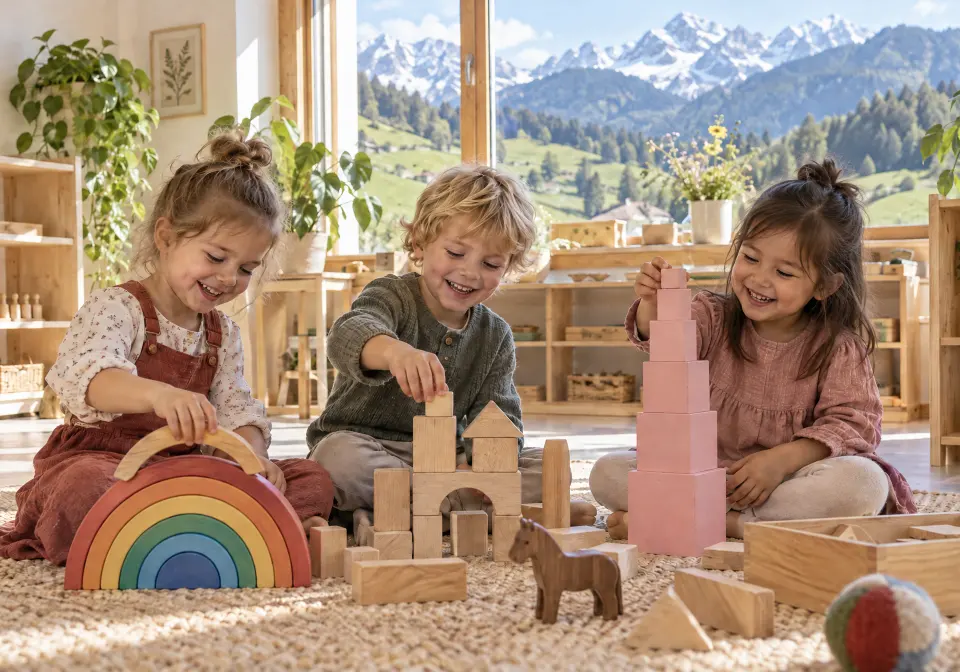
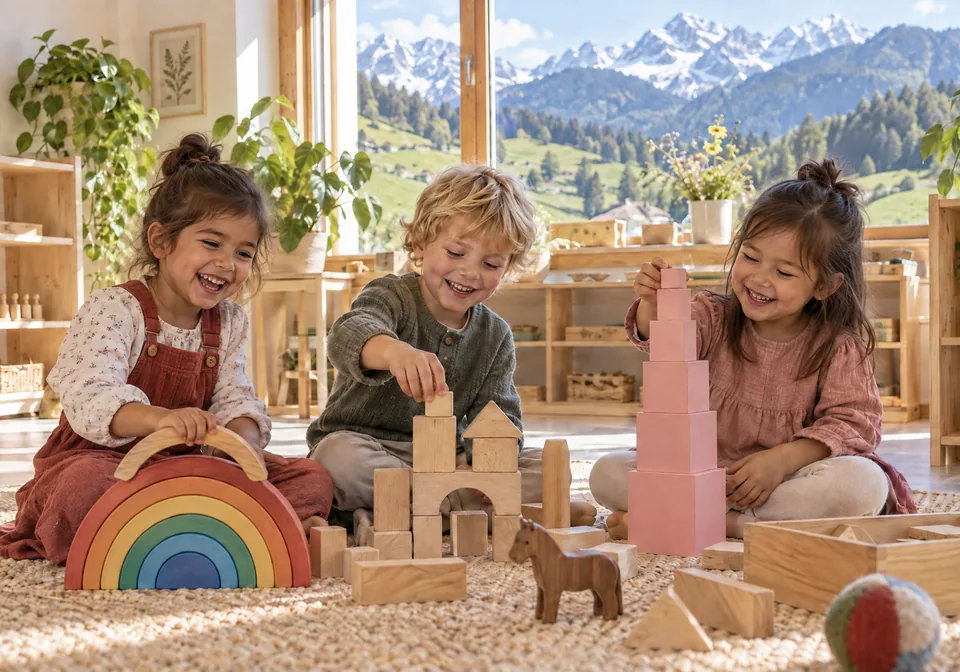
Hero-Bild: Mädchen links als spanisches Mädchen mit dunklerer Haut

diff --git a/docs/index.html b/docs/index.html
@@ -7,7 +7,7 @@
 <meta name="description" content="Staatlich anerkannter Montessori-Kindergarten in Schwangau: eine Gruppe, bis zu 25 Kinder von 3 bis 6 Jahren, getragen von einer Elterninitiative.">
 <meta property="og:title" content="Montessori Kinderhaus Schwangau">
 <meta property="og:description" content="»Hilf mir, es selbst zu tun.« Staatlich anerkannter Kindergarten am Ehberg in Schwangau.">
-<meta property="og:image" content="assets/img/hero-960.webp?v=59c2bdef">
+<meta property="og:image" content="assets/img/hero-960.webp?v=0f224577">
 <meta name="theme-color" content="#fbf8f2">
 <link rel="icon" href="assets/favicon.svg" type="image/svg+xml">
 <link rel="preload" href="assets/fonts/fraunces.woff2" as="font" type="font/woff2" crossorigin>
@@ -56,7 +56,7 @@
       <div class="hero-media">
         <svg class="blob b1" viewBox="0 0 200 200" aria-hidden="true"><path fill="currentColor" d="M43-58C56-46 67-31 70-14 73 3 67 22 55 36 43 50 25 59 5 63-15 67-37 66-52 54-67 42-75 19-73-2-71-23-60-42-44-54-28-66-7-71 10-70 27-69 30-70 43-58Z" transform="translate(100 100)"/></svg>
         <svg class="blob b2" viewBox="0 0 200 200" aria-hidden="true"><path fill="currentColor" d="M50-61C63-49 69-30 70-12 71 6 67 24 56 39 45 54 27 66 7 70-13 74-35 70-50 57-65 44-73 22-72 1-71-20-61-40-46-52-31-64-15-68 3-71 21-74 37-73 50-61Z" transform="translate(100 100)"/></svg>
-        <img src="assets/img/hero.webp?v=a1b06d41" srcset="assets/img/hero-960.webp?v=59c2bdef 960w, assets/img/hero.webp?v=a1b06d41 1920w" sizes="(max-width: 1120px) 100vw, 1120px"
+        <img src="assets/img/hero.webp?v=dff5e3c2" srcset="assets/img/hero-960.webp?v=0f224577 960w, assets/img/hero.webp?v=dff5e3c2 1920w" sizes="(max-width: 1120px) 100vw, 1120px"
              width="1920" height="1344" alt="Drei lachende Kinder sitzen auf einem Teppich und spielen mit einem Holzregenbogen, Bauklötzen und dem rosa Turm" fetchpriority="high">
       </div>
       <span class="eyebrow">Staatlich anerkannter Kindergarten in Schwangau</span>
